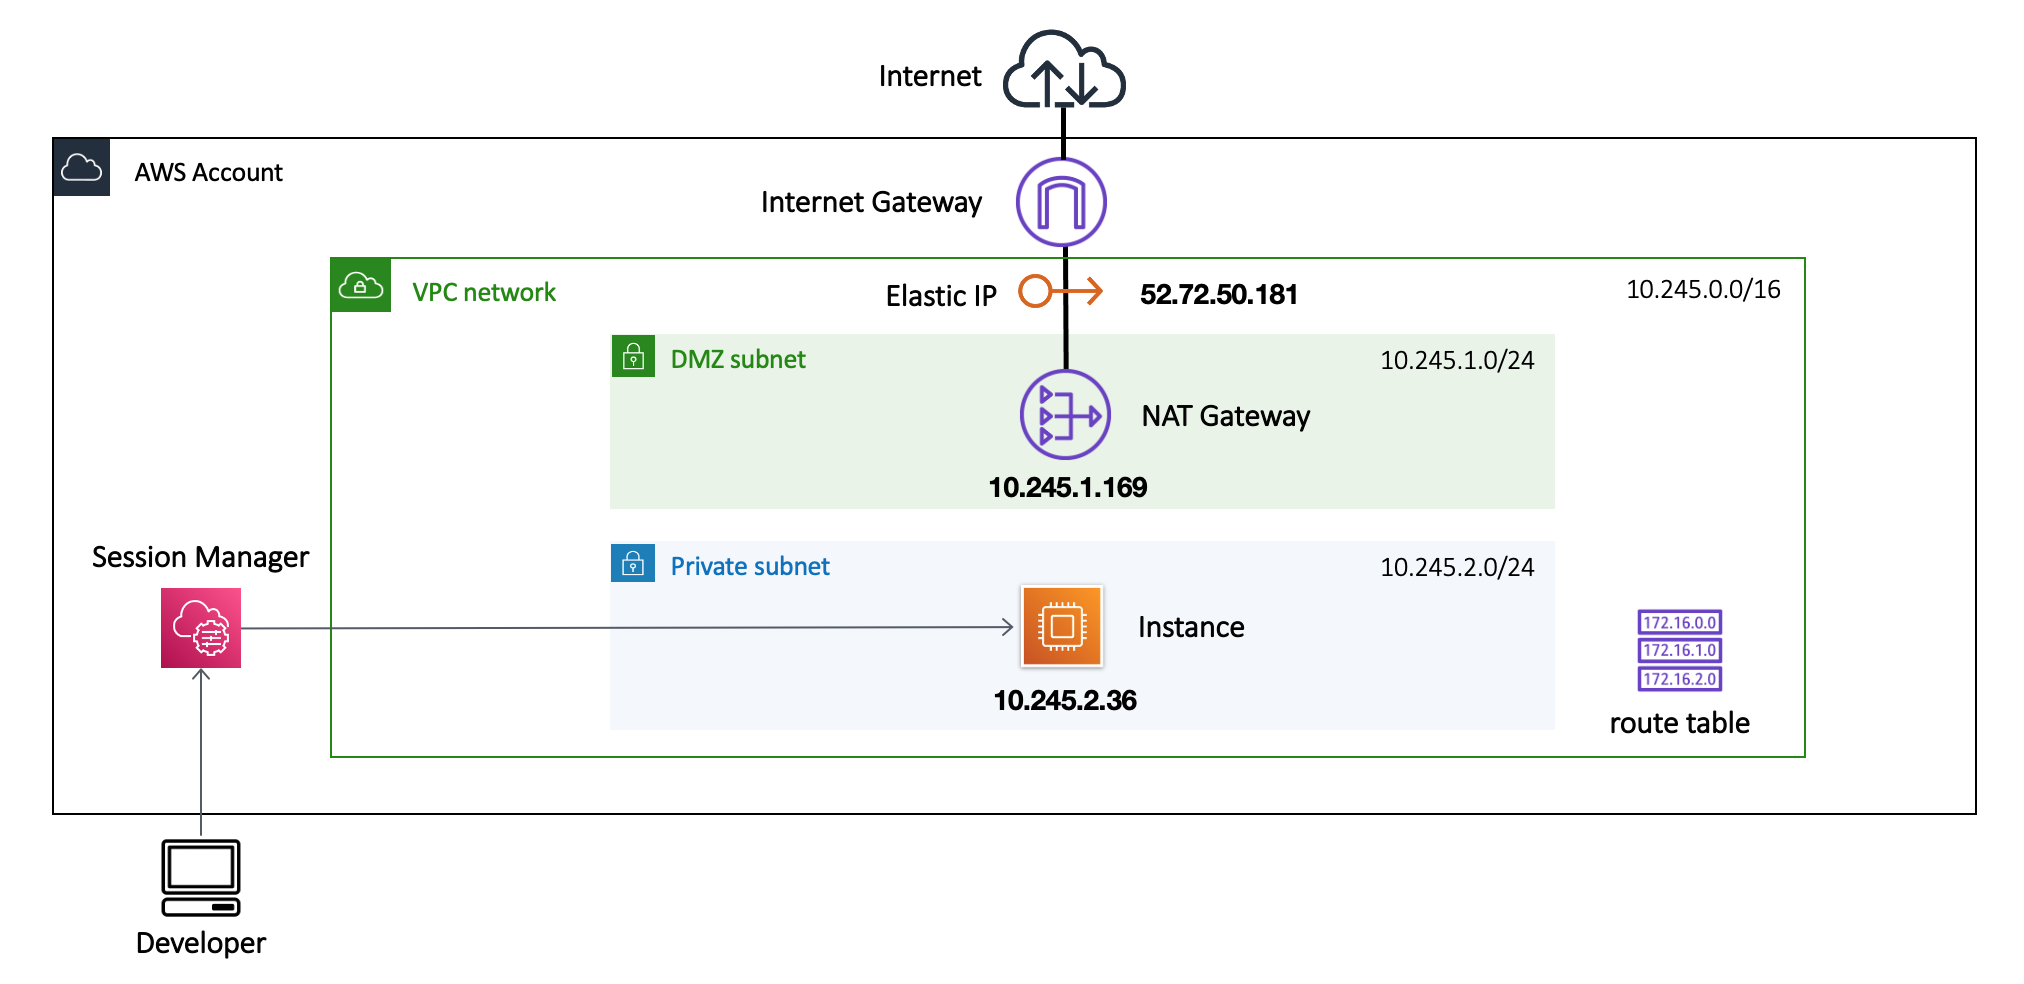
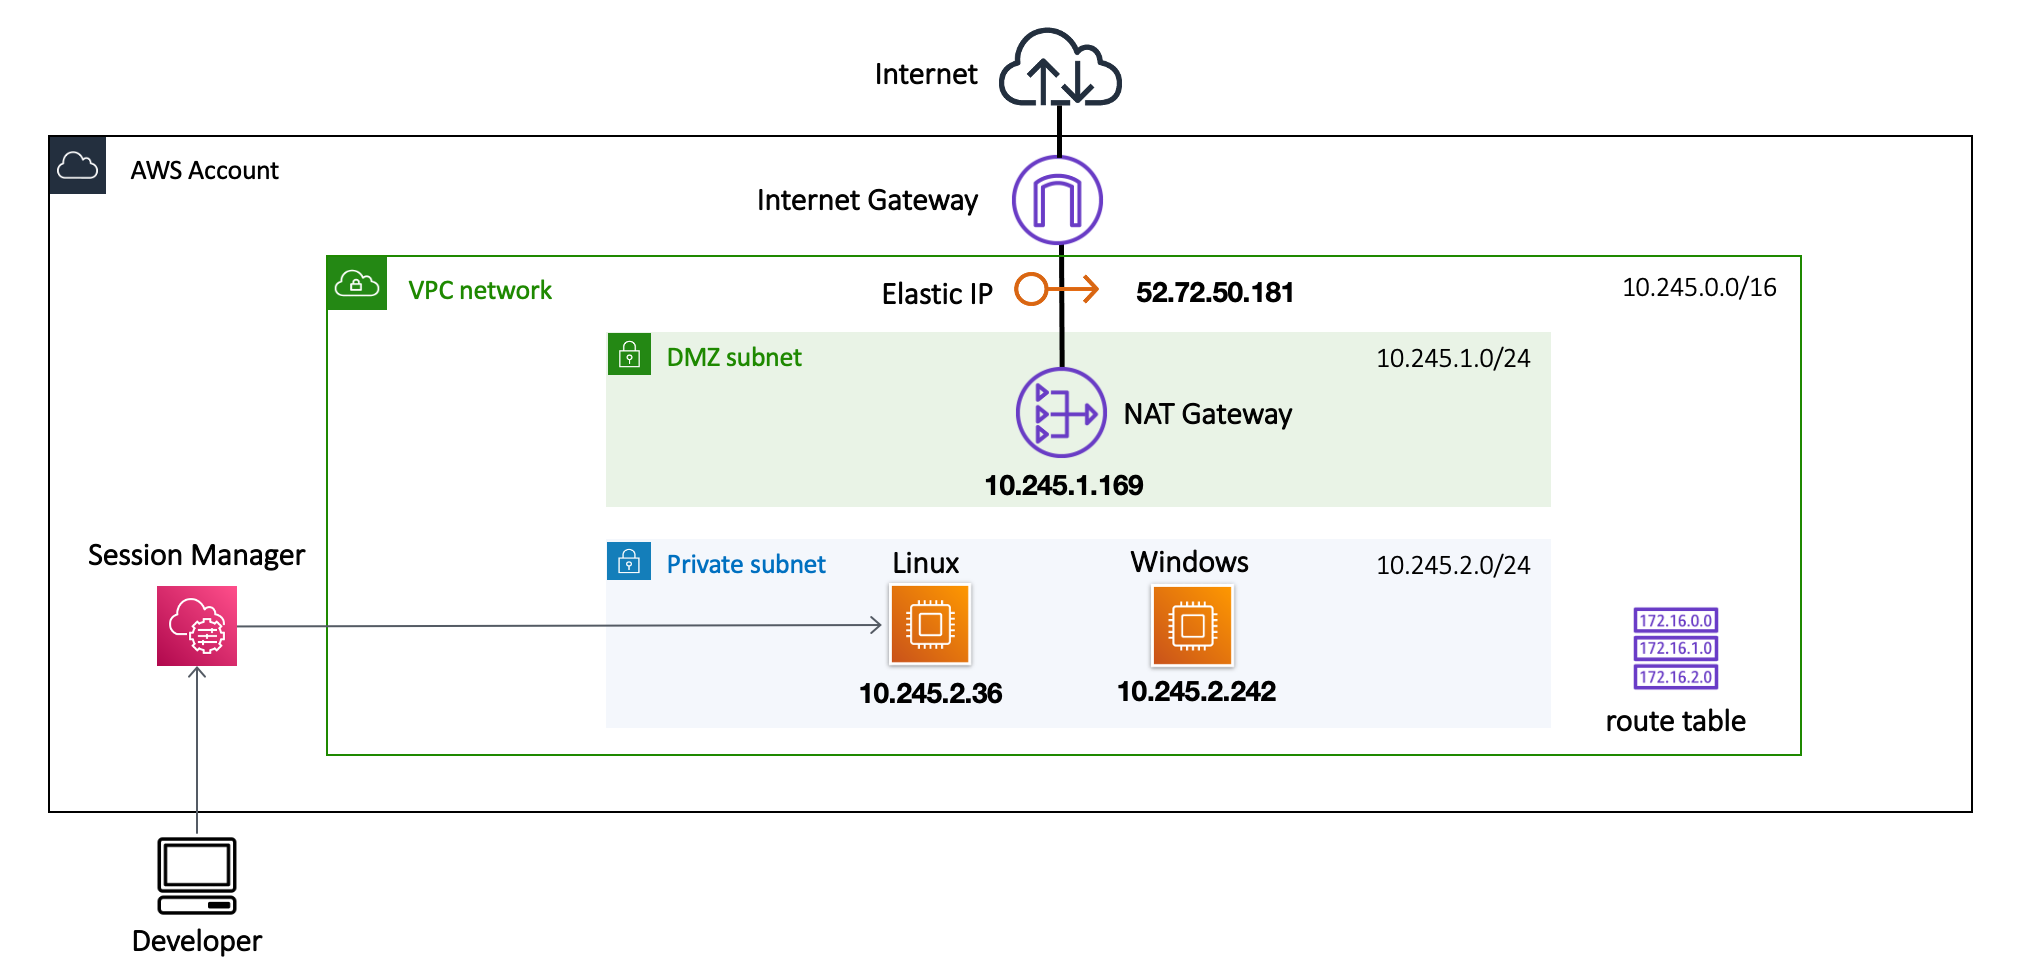
Windows RDP

diff --git a/README.md b/README.md
@@ -32,7 +32,7 @@ terraform apply
 ```
 
 ## do I need a SSH key?
-* you don't need a SSH key for options 1, 2 and 3 below
+* you don't need a SSH key for Linux options 1, 2 and 3 below
 * in this case *exclude* the AWS key pair from your environment
 * from a security perspective, it's better not to use SSH keys
 * avoids issues with SSH key management
@@ -100,3 +100,25 @@ ssh ec2-user@i-08d33c2c6302550fa
 scp Desktop/sample-file.txt ec2-user@i-08d33c2c6302550fa:~
 ```
 <img src="images/scp.png" width="500">
+
+## Windows RDP
+* An AWS key pair is needed to retrieve the administrator password
+* Open the AWS console and select the Windows instance
+* Select Actions, Security, Get Windows password
+* Paste your private key into the box, or browse to the file
+* Copy the Windows password
+* Start a port forwarding session
+```
+aws ssm start-session --target i-0c09d80c16edef9d8 --document-name AWS-StartPortForwardingSession --parameters '{"portNumber":["3389"], "localPortNumber":["3389"]}'
+```
+* open Microsoft Remote Desktop
+* add a new PC with the destination `localhost`
+
+<img src="images/remote-desktop.png" width="400">
+
+* enter username `Administrator` and paste in the Windows password
+* accept the certificate when prompted
+
+<img src="images/windows.png">
+
+* test Internet access using the Edge browser
